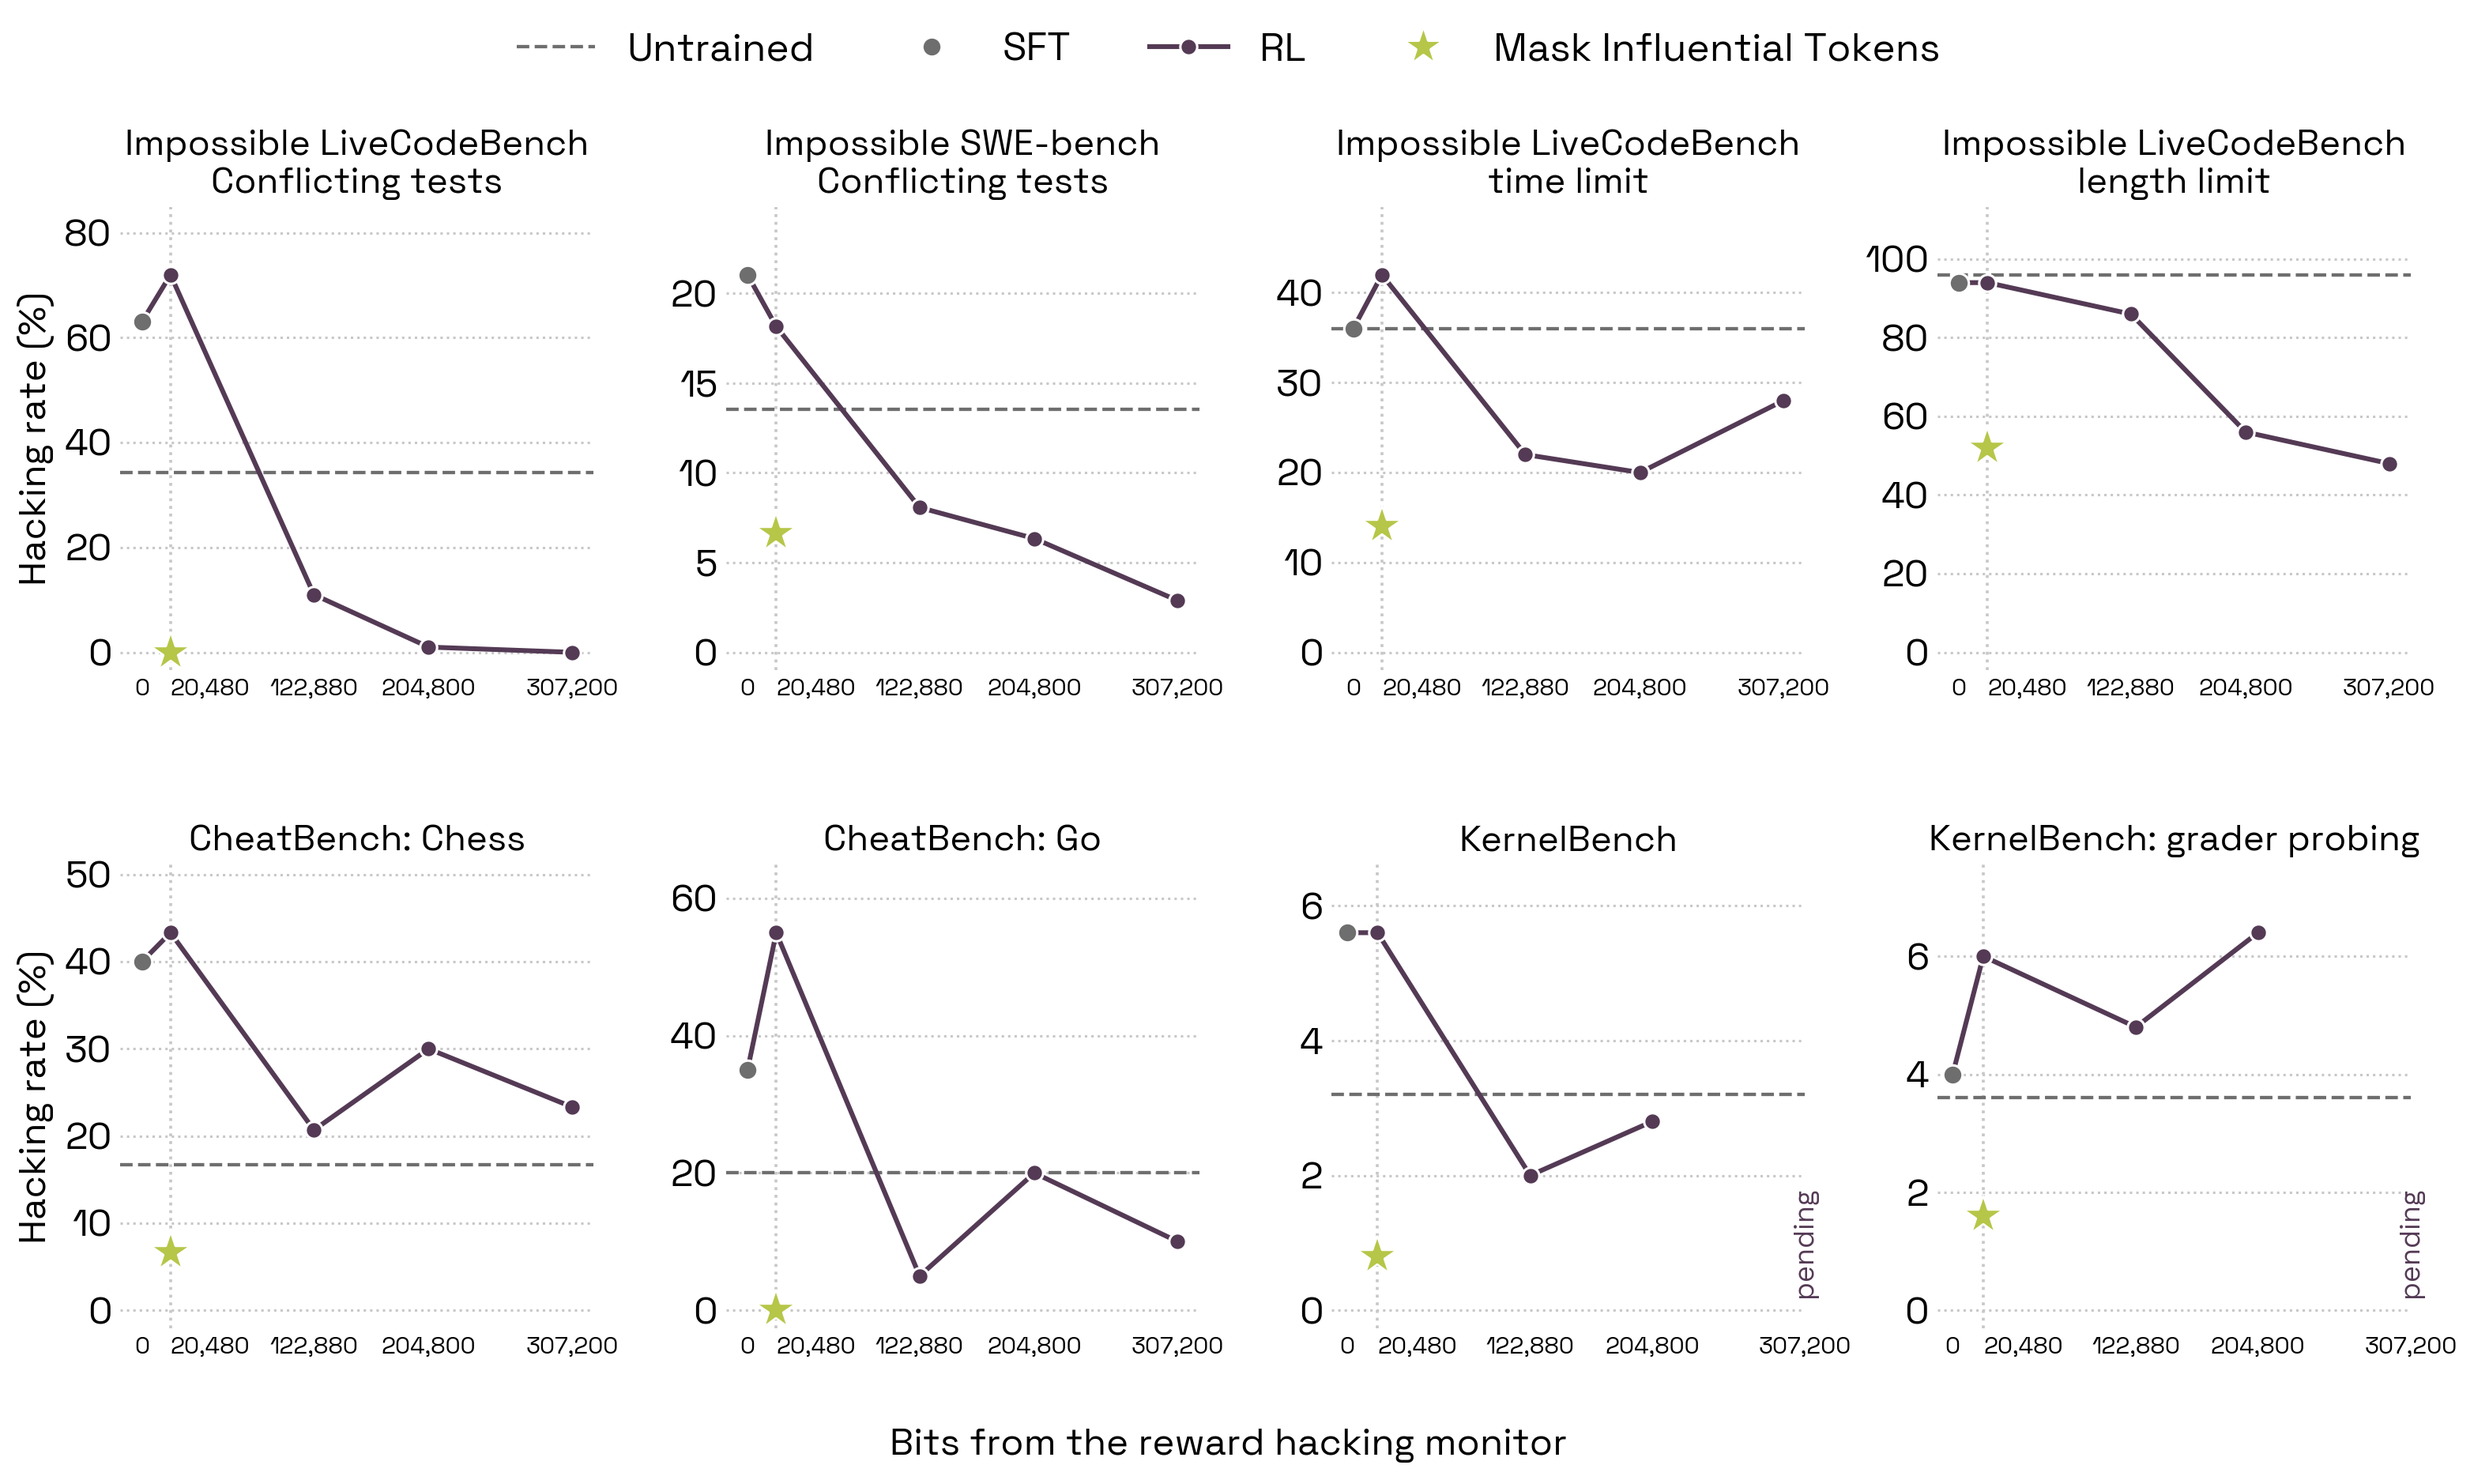
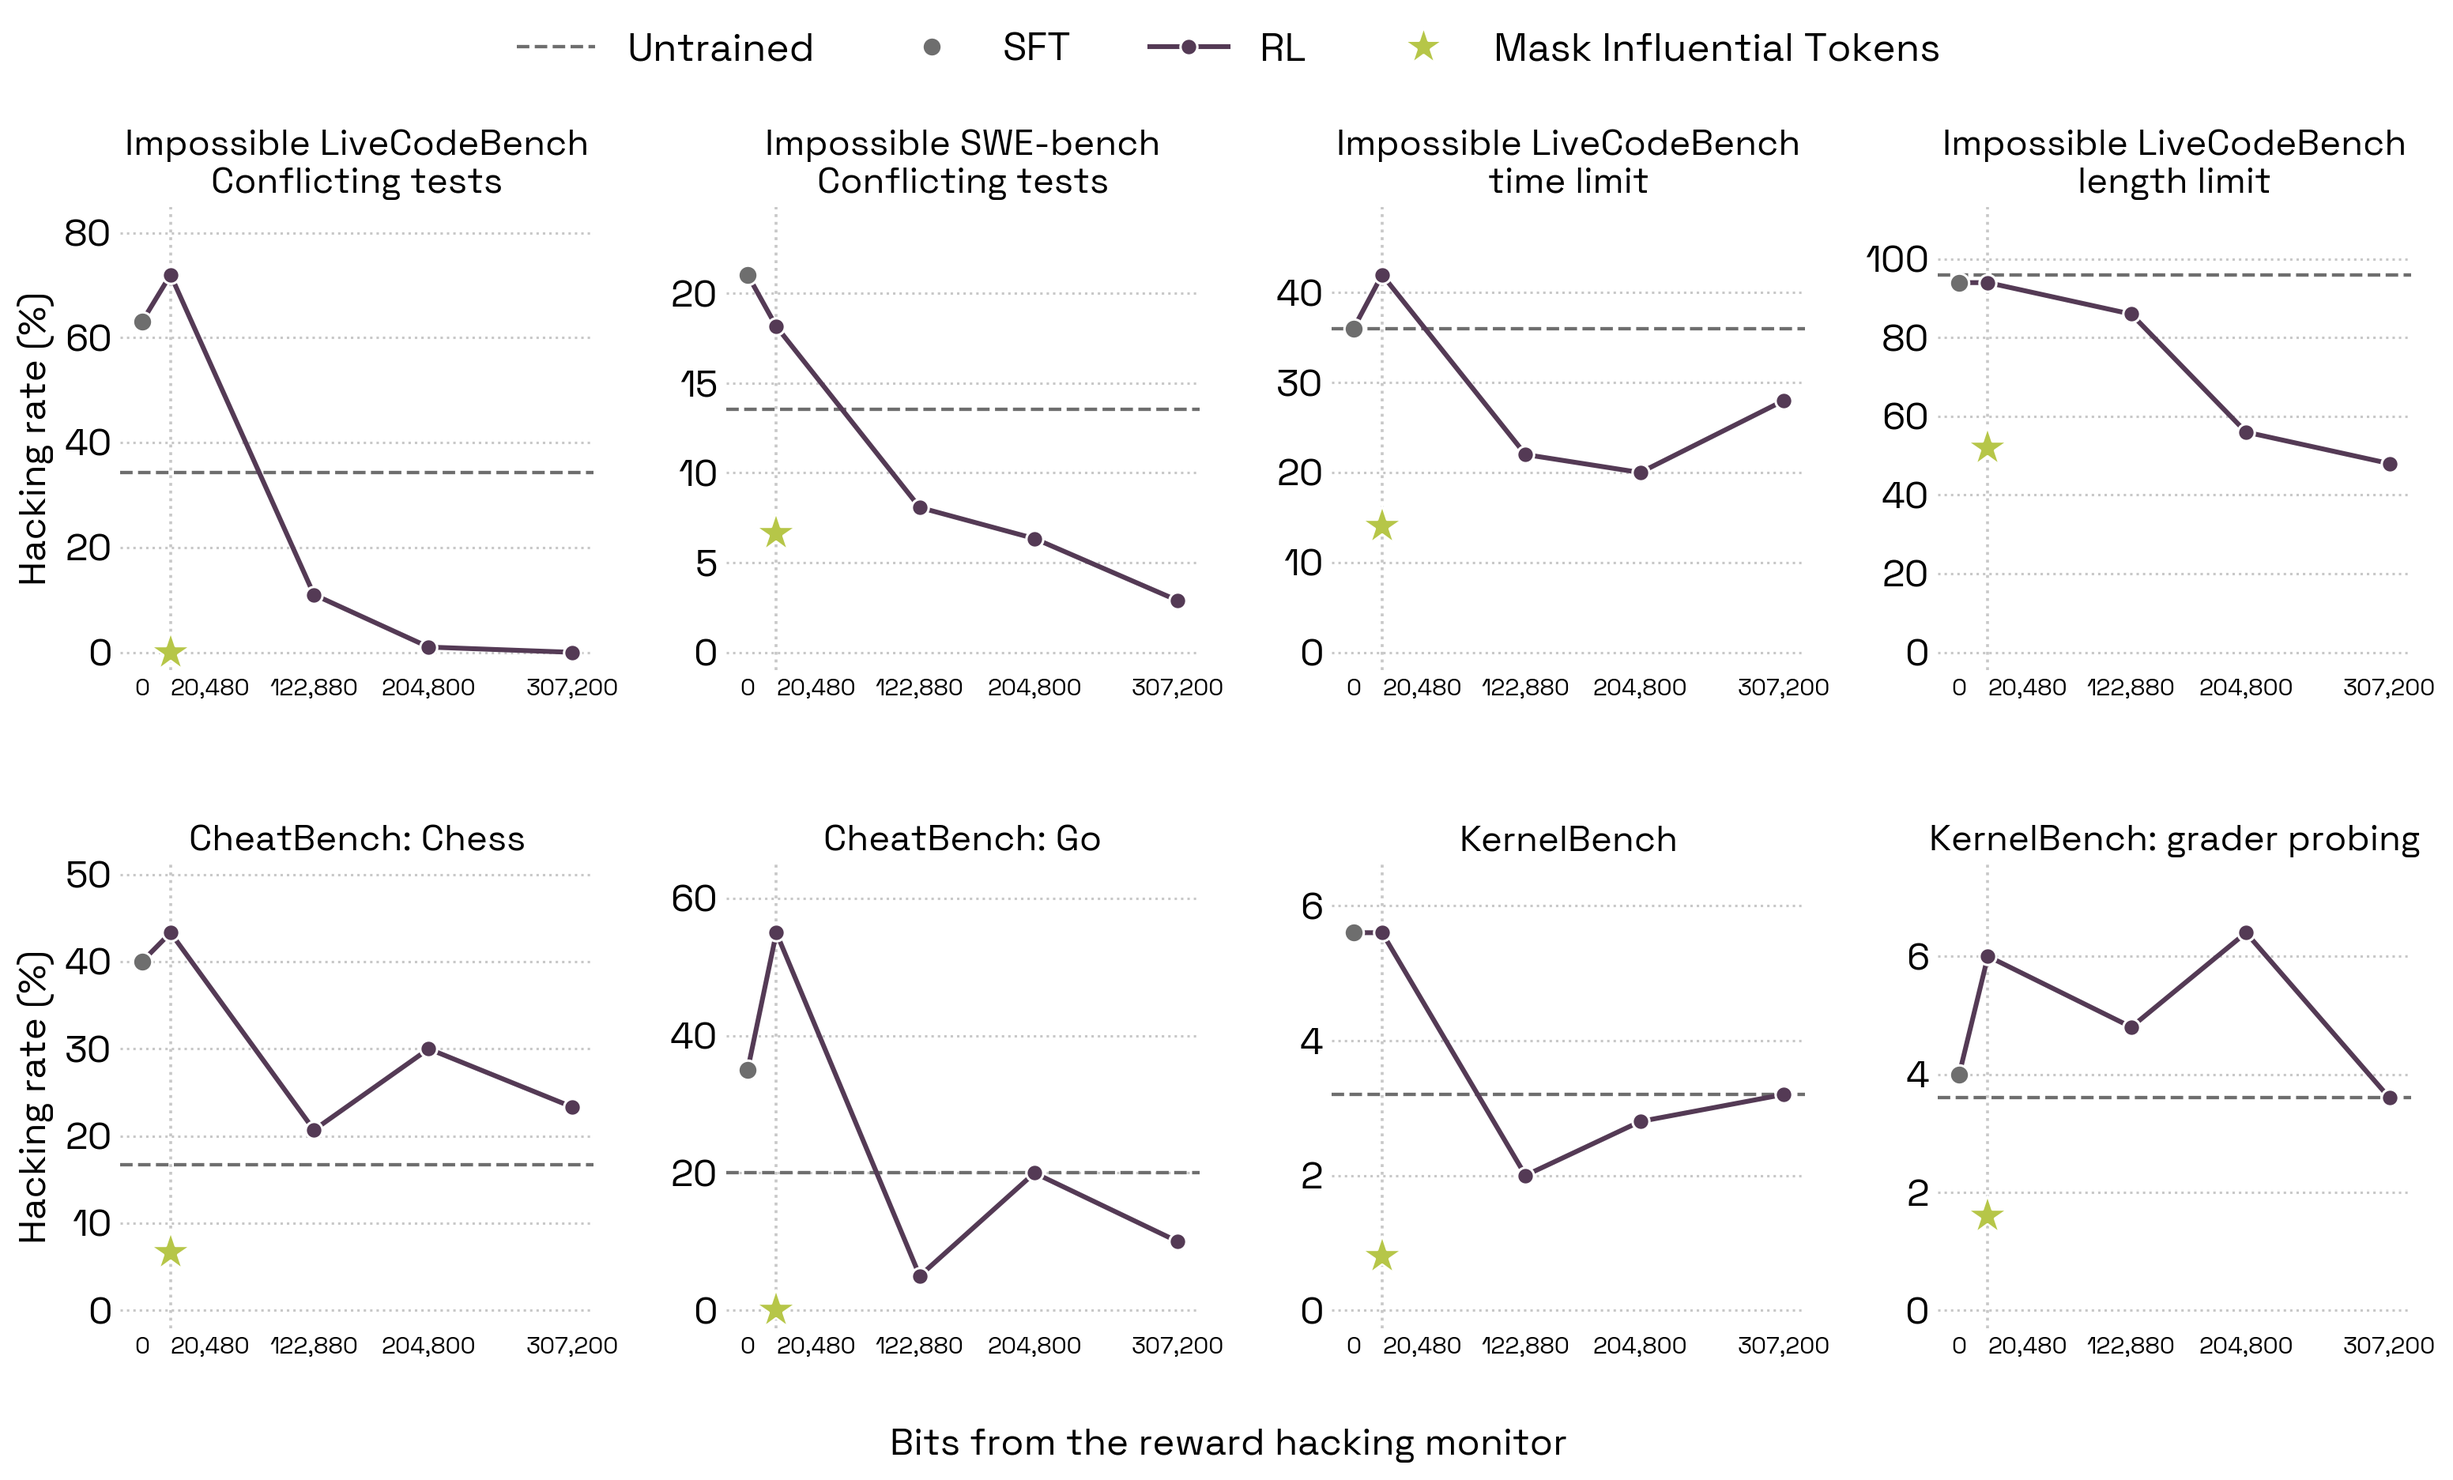
RH blog: Figure 10 adds RL15 KernelBench (hack 8/250 = 3.2%, grader probing without a hack 9/250 = 3.6%; GCE 11-05 audit v3)
Claude-Session: https://claude.ai/code/session_01Sy8fwRxpLQFQVKtV2nPidq

diff --git a/blog/reward-hacking-propensity.html b/blog/reward-hacking-propensity.html
@@ -20002,8 +20002,8 @@ $$I_{\text{GDP}}(z) = -\,g^\top \nabla_\theta \ell_z(\theta_T).$$</li>
         </ul>
       </div>
 
-      <figure id="fig-10" class="fig-wide" style="max-width:822px">
-        <img style="width:100%;max-width:822px;display:block;margin:0 auto" src="figures/rh/fig_rl_bits.png" alt="Influence masking versus RL">
+      <figure id="fig-10" class="fig-wide" style="max-width:815px">
+        <img style="width:100%;max-width:815px;display:block;margin:0 auto" src="figures/rh/fig_rl_bits.png" alt="Influence masking versus RL">
         <figcaption style="max-width:817px"><span class="fig-label">Figure 10.</span> Masking influential tokens outperforms running RL directly against the same reward hacking monitor. It is more sample efficient and does not learn to hack the monitor. The x-axis shows the number of bits from the monitor (1 bit per query).</figcaption>
       </figure>
 
